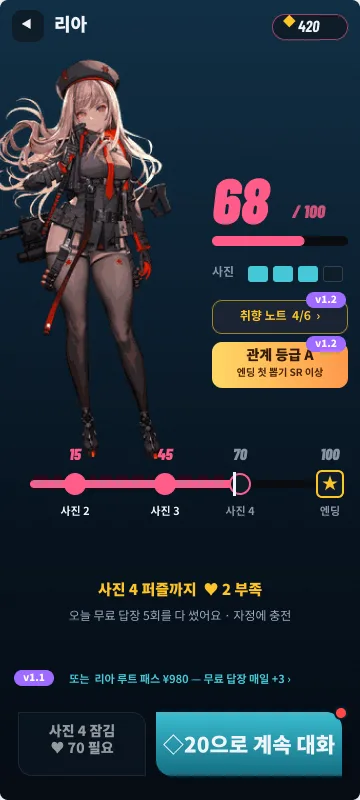
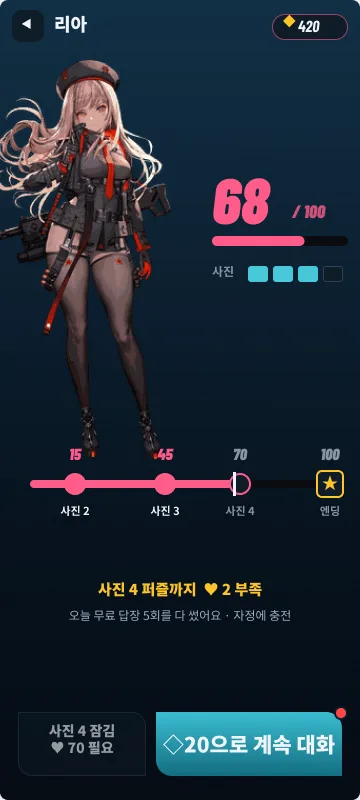
Proposal: launch-build screens without version pins, JP title with Korean reading and meaning
Claude-Session: https://claude.ai/code/session_01QC4LnGUoEV4hPAaGSGh6GF

diff --git a/territory-romance-f2p-proposal.html b/territory-romance-f2p-proposal.html
@@ -1,5 +1,5 @@
 <!doctype html>
-<html lang="ko"><head><meta charset="utf-8"><meta name="viewport" content="width=device-width, initial-scale=1"><title>陣取りカノジョ · 기획서</title>
+<html lang="ko"><head><meta charset="utf-8"><meta name="viewport" content="width=device-width, initial-scale=1"><title>陣取りカノジョ (진토리 카노조 · 땅따먹기 그녀) · 기획서</title>
 <script>(function(){var t=null;try{t=new URLSearchParams(location.search).get('theme')}catch(e){}if(!t){try{t=localStorage.getItem('proposal-theme')}catch(e){}}if(t==='dark')document.documentElement.setAttribute('data-theme','dark')})();</script>
 <link rel="preconnect" href="https://fonts.googleapis.com"><link rel="preconnect" href="https://fonts.gstatic.com" crossorigin>
 <link rel="preconnect" href="https://cdn.jsdelivr.net" crossorigin>
@@ -138,9 +138,9 @@ footer{border-top:1px solid var(--line);padding-top:18px;color:var(--muted);font
  <div>
   <div class="kicker">DLsite にじGAME · FANZA · F2P + IAP</div>
   <h1>陣取り<br>カノジョ</h1>
-  <div class="aka">가제 · 땅따먹기 그녀</div>
-  <p class="lead"><b>90년대 아케이드 陣取り</b>로 사진을 열고,<br>채팅으로 <b>그녀만의 취향</b>을 알아내고,<br>마지막엔 <b>최고 등급 엔딩</b>을 뽑음.</p>
-  <div class="chips"><span>① 추억의 아케이드 陣取り</span><span>② 그녀를 알아가는 채팅</span><span>③ 최고 등급 엔딩 뽑기</span></div>
+  <div class="aka">(진토리 카노조 · 땅따먹기 그녀)</div>
+  <p class="lead"><b>90년대 아케이드 陣取り(진토리)</b>로 사진을 열고,<br>채팅으로 <b>그녀만의 취향</b>을 알아내고,<br>마지막엔 <b>최고 등급 엔딩</b>을 뽑음.</p>
+  <div class="chips"><span>① 추억의 아케이드 陣取り(진토리)</span><span>② 그녀를 알아가는 채팅</span><span>③ 최고 등급 엔딩 뽑기</span></div>
  </div>
  <div class="hero-shots"><img src="japan-project/proposal-screens/02-puzzle.webp" alt="땅따먹기 퍼즐"><img src="japan-project/proposal-screens/05-talk.webp" alt="채팅"><div class="holo"><img src="japan-project/proposal-screens/08-result.webp" alt="UR 엔딩"></div></div>
 </header>
@@ -159,7 +159,7 @@ footer{border-top:1px solid var(--line);padding-top:18px;color:var(--muted);font
   <figure class="shot"><img src="japan-project/proposal-screens/05-talk.webp" alt="" loading="lazy"><figcaption><b><i>05</i>대화</b><span>무료 답장 5회 · 이후 ◇20</span></figcaption></figure>
   <figure class="shot"><img src="japan-project/proposal-screens/06-bond.webp" alt="" loading="lazy"><figcaption><b><i>06</i>관계</b><span>♥ 모자라면 다음 사진 잠김</span></figcaption></figure>
   <figure class="shot"><img src="japan-project/proposal-screens/07-ending.webp" alt="" loading="lazy"><figcaption><b><i>07</i>엔딩 뽑기</b><span>첫 1회 무료 · 최고 UR</span></figcaption></figure>
-  <figure class="shot"><div class="holo"><img src="japan-project/proposal-screens/08-result.webp" alt="" loading="lazy" style="border-radius:16px"></div><figcaption><b><i>08</i>결과</b><span>UR = 전면 홀로 (움직임 v1.2)</span></figcaption></figure>
+  <figure class="shot"><div class="holo"><img src="japan-project/proposal-screens/08-result.webp" alt="" loading="lazy" style="border-radius:16px"></div><figcaption><b><i>08</i>결과</b><span>UR = 전면 홀로 카드</span></figcaption></figure>
  </div>
 </section>
 
@@ -169,10 +169,10 @@ footer{border-top:1px solid var(--line);padding-top:18px;color:var(--muted);font
  <p class="sub">요소 하나하나는 이미 있음. 엣지는 '짧은 퍼즐 + 관계 게이트 + 등급 뽑기'의 조합.</p>
  <div class="cmpwrap"><table class="cmp">
   <tr><th>비교 대상</th><th>핵심 재미</th><th>세션</th><th>과금</th><th>한계</th></tr>
-  <tr><td>陣取り 탈의 게임<br><span class="x">(ギャルズパニック 1990~ · 최근 モココX 2022)</span></td><td>영역을 먹으면 그림 공개</td><td>짧음</td><td>단품 구매</td><td>공개 후 끝 · 관계·재방문 동기 없음</td></tr>
+  <tr><td>陣取り(진토리) 탈의 게임<br><span class="x">(ギャルズパニック 1990~ · 최근 モココX 2022)</span></td><td>영역을 먹으면 그림 공개</td><td>짧음</td><td>단품 구매</td><td>공개 후 끝 · 관계·재방문 동기 없음</td></tr>
   <tr><td>FANZA 대형 F2P<br><span class="x">(RPG · 전략 가챠)</span></td><td>캐릭터 수집 · 전투 성장</td><td>김</td><td>캐릭터 가챠</td><td>진입 장벽 · 성장 피로</td></tr>
   <tr><td>AI 연애 챗 앱</td><td>대화 · 호감도 단계</td><td>중간</td><td>대화 횟수 · 보이스 · 이미지</td><td>게임성 약함 · 보상 체감 약함</td></tr>
-  <tr class="us"><td>陣取りカノジョ</td><td>퍼즐로 사진 공개 → 대화로 다음 사진 → 엔딩 등급 뽑기</td><td>짧음 (1판 1~2분 [E])</td><td>◇ 하나 · 엔딩 뽑기 중심</td><td>콘텐츠 소진이 빠름 → 5장 참고</td></tr>
+  <tr class="us"><td>陣取りカノジョ<br><span class="x">(진토리 카노조 · 땅따먹기 그녀)</span></td><td>퍼즐로 사진 공개 → 대화로 다음 사진 → 엔딩 등급 뽑기</td><td>짧음 (1판 1~2분 [E])</td><td>◇ 하나 · 엔딩 뽑기 중심</td><td>콘텐츠 소진이 빠름 → 5장 참고</td></tr>
  </table></div>
  <p class="note">陣取り 탈의 장르의 원조는 Kaneko 'Gals Panic'(1990, Qix 방식 · 다수 클론 존재). 일본에서 陣取り 게임은 Qix · ヴォルフィード · ギャルズパニック 등 80~90년대 아케이드·게임보이 세대의 추억으로 통하고, 2022년 'モココX'도 '懐かしい陣取りアーケード'로 소개됨. FANZA 대형 F2P · AI 챗 앱의 과금 구조는 공개 소개 자료 기준 요약 — 경쟁작 선정과 수치는 추가 확인 필요.</p>
  <p class="sub" style="margin:0 0 18px;font-size:16px;color:var(--ink2)">① 퍼즐로 사진을 열고 ② 마음을 얻어야 다음 사진이 열리고 ③ 엔딩은 홀로그램 카드로 뽑음.</p>
@@ -250,7 +250,7 @@ footer{border-top:1px solid var(--line);padding-top:18px;color:var(--muted);font
   <div class="fix"><img src="japan-project/proposal-screens/n1-note.webp" alt="" loading="lazy"><div><div class="no">답을 운으로 찍음</div><h3>취향 태그</h3><p>알아낸 취향이 선택지에 <b>태그</b>로 표시됨. 맞히는 건 실력. <span class="vt">노트 화면 v1.2</span></p></div></div>
   <div class="fix"><img src="japan-project/proposal-screens/05-talk.webp" alt="" loading="lazy"><div><div class="no">틀리면 그냥 손해</div><h3>실패도 수집</h3><p>나쁜 답 = 싫어하는 취향 공개. <b>되돌리기 하루 1회 무료</b>. <span class="vt">콤보 v1.2</span></p></div></div>
   <div class="fix"><img src="japan-project/proposal-screens/p1-pass.webp" alt="" loading="lazy"><div><div class="no">결제를 세 번 요구함</div><h3>루트 패스 ¥980<span class="vt">v1.1</span></h3><p>무료 답장 매일 +3 · 이어하기 3 · 다시 뽑기 3을 <b>한 번에</b>. 구매 제안은 세션당 1회.</p></div></div>
-  <div class="fix"><img src="japan-project/proposal-screens/07-ending.webp" alt="" loading="lazy"><div><div class="no">최고 엔딩이 순전히 운</div><h3>관계 등급 보너스<span class="vt">v1.2</span></h3><p>A = 첫 뽑기 <b>SR 이상 확정</b> · S = UR 확률 3배. 잘할수록 높은 등급.</p></div></div>
+  <div class="fix"><img src="japan-project/proposal-screens/n1-note.webp" alt="" loading="lazy"><div><div class="no">최고 엔딩이 순전히 운</div><h3>관계 등급 보너스<span class="vt">v1.2</span></h3><p>A = 첫 뽑기 <b>SR 이상 확정</b> · S = UR 확률 3배. 잘할수록 높은 등급.</p></div></div>
   <div class="fix noimg"><div><div class="no">퍼즐에서 막혀 이탈</div><h3>도움 모드</h3><p>2연속 실패 → 다음 판 <b>시작 영역 +10%</b>. 무료.</p></div></div>
   <div class="fix noimg"><div><div class="no">무과금은 목표가 없음</div><h3>일일 미션 ◇40<span class="vt">v1.1</span></h3><p>퍼즐 1 · 대화 1 · 앨범 보기. 캐릭터 한 명 끝낼 때쯤 <b>다시 뽑기 1회분</b>.</p></div></div>
  </div>
@@ -259,7 +259,7 @@ footer{border-top:1px solid var(--line);padding-top:18px;color:var(--muted);font
 <section id="launch">
  <div class="kicker">4 · 출시 스펙 — 런칭 필수 (MVP)</div>
  <h2>런칭 필수 — 이것만 있으면 출시 가능</h2>
- <p class="sub">한 판 흐름 8화면 + 해금 · 다시 뽑기 · 상점 · 앨범. 화면 속 보라색 <b style="color:var(--violet)">v1.x</b> 핀은 런칭 빌드에서 숨김.</p>
+ <p class="sub">한 판 흐름 8화면 + 해금 · 다시 뽑기 · 상점 · 앨범. 기획서의 모든 화면은 런칭 빌드 기준 (업데이트 요소 제외).</p>
  <div class="nums" style="margin-bottom:22px">
   <div class="num"><b>4명</b><span>런칭 캐릭터 · 월 +2 (6개월차 12명)</span></div>
   <div class="num"><b>5장</b><span>캐릭터당 앨범 (사진 4 + 엔딩)</span></div>
@@ -294,7 +294,7 @@ footer{border-top:1px solid var(--line);padding-top:18px;color:var(--muted);font
   <div class="ver"><span class="tag">v1.2</span><h3>실력 보상 · 소장 가치</h3><div class="when">런칭 +2개월 [E]</div>
    <ul><li>취향 노트 화면 + 관계 등급 보너스</li><li>마음 콤보</li><li>UR Live2D 루프 애니</li></ul>
    <div class="trig">앞당기는 조건: 대화 정답률 · 06 화면 이탈률 · 다시 뽑기 전환율</div>
-   <div class="thumbs"><img src="japan-project/proposal-screens/n1-note.webp" alt="" loading="lazy"><img src="japan-project/proposal-screens/08-result.webp" alt="" loading="lazy"></div></div>
+   <div class="thumbs"><img src="japan-project/proposal-screens/n1-note.webp" alt="" loading="lazy"><img src="japan-project/proposal-screens/08-result-live.webp" alt="" loading="lazy"></div></div>
   <div class="ver"><span class="tag">v1.3+</span><h3>확장</h3><div class="when">런칭 +3개월~</div>
    <ul><li>퍼즐 방해물 · 부스터 추가</li><li>이벤트 캐릭터 (기간 한정)</li><li>AI 자유 대화 — LLM 비용 검증 후</li></ul>
    <div class="trig">앞당기는 조건: 퍼즐 클리어율 · 콘텐츠 소진 속도</div></div>

diff --git a/territory-romance-f2p-proposal-light.html b/territory-romance-f2p-proposal-light.html
@@ -1,5 +1,5 @@
 <!doctype html>
-<html lang="ko"><head><meta charset="utf-8"><meta name="viewport" content="width=device-width, initial-scale=1"><title>陣取りカノジョ · 기획서</title>
+<html lang="ko"><head><meta charset="utf-8"><meta name="viewport" content="width=device-width, initial-scale=1"><title>陣取りカノジョ (진토리 카노조 · 땅따먹기 그녀) · 기획서</title>
 <meta http-equiv="refresh" content="0; url=territory-romance-f2p-proposal.html?theme=light">
 <style>body{margin:0;background:#f5f7fb;color:#111a26;font:16px/1.5 sans-serif;padding:40px}</style></head>
 <body><a href="territory-romance-f2p-proposal.html?theme=light">라이트 모드 기획서 열기</a></body></html>
